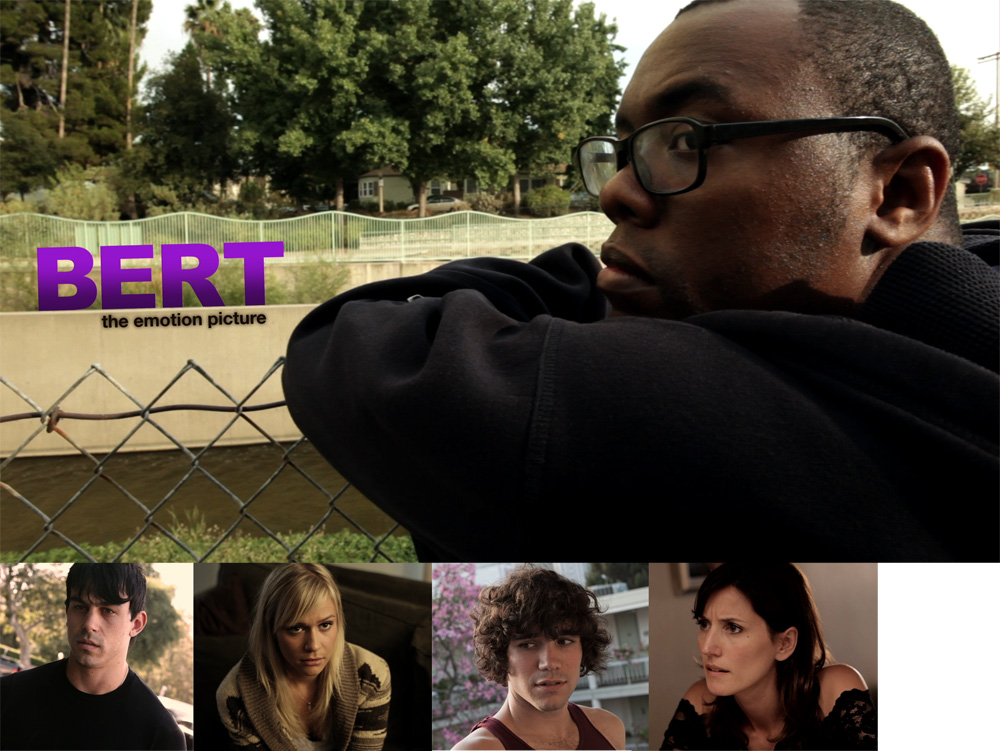
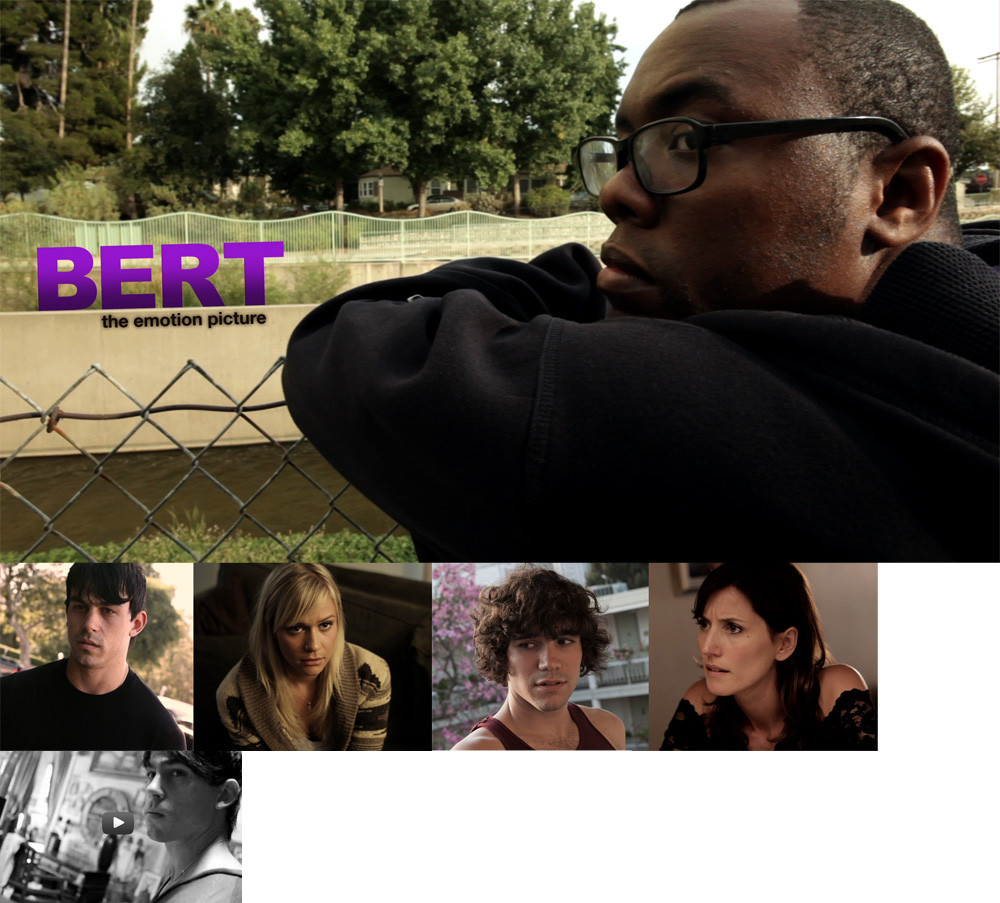
Added Trailer

diff --git a/app/assets/stylesheets/base.css.scss b/app/assets/stylesheets/base.css.scss
@@ -38,13 +38,35 @@ a:hover {
 }
 
 header {
-  text-indent: -999999px;
-  overflow: hidden;
+  position: relative;
   margin: 0 auto 2em;
   width: 980px;
 
   background: no-repeat image-url("bert_the_movie.jpg") top center;
   height: 550px;
+
+  h1, h2 {
+    text-indent: -999999px;
+    overflow: hidden;
+  }
+
+  a {
+    display: block;
+    position: absolute;
+    bottom: 2em;
+    left: 1.7em;
+    width: 242px;
+    height: 20px;
+    padding-top: 152px;
+    background: #000 no-repeat image-url("bert_the_movie.jpg") left -750px;
+    @include box-shadow();
+    overflow: hidden;
+    cursor: pointer;
+    text-transform: uppercase;
+    @include text-shadow(0 1px 1px rgba(255, 255, 255, .7), 0 12px 24px rgba(0,0,0,.4));
+    text-align: center;
+    font-size: 130%;
+  }
 }
 
 nav {
@@ -75,7 +97,7 @@ nav {
   li {
     width: 228px;
     height: 188px;
-    background: no-repeat image-url("bert_the_movie.jpg") bottom left;
+    background: no-repeat image-url("bert_the_movie.jpg") left -563px;
     float: left;
     margin-right: 38px;
 
@@ -84,16 +106,16 @@ nav {
     }
 
     &.actor-2 {
-      background-position: -195px bottom;
+      background-position: -195px -563px;
     }
 
     &.actor-3 {
       width: 216px;
-      background-position: -432px bottom;
+      background-position: -432px -562px;
     }
 
     &.actor-4 {
-      background-position: -649px bottom;
+      background-position: -649px -563px;
       margin-right: 0;
     }
   }
@@ -117,6 +139,11 @@ footer {
 
 section {
   display: none;
+
+  iframe {
+    width: 100%;
+    height: 100%;
+  }
 }
 
 .ui-dialog {

diff --git a/app/assets/javascripts/application.js b/app/assets/javascripts/application.js
@@ -1,8 +1,7 @@
 //= require jquery-1.7.2.min
 //= require jquery-ui-1.8.22.dialog-only.min
-
 $(function() {
-  $('a', '#menu').on('click', function(event) {
+  $('a.modal').on('click', function(event) {
     event && event.preventDefault();
 
     var selector = $(this).attr('href');
@@ -11,7 +10,7 @@ $(function() {
     $dialog.dialog({
       title: $(this).html(),
       width: 800,
-      height: 500
+      height: 531
     });
   });
 });

diff --git a/app/helpers/application_helper.rb b/app/helpers/application_helper.rb
@@ -1,2 +1,5 @@
 module ApplicationHelper
+  def iframe(url)
+    haml_tag :iframe, {scrolling: 'no', frameborder: 'no', allowfullscreen: 'true', src: url}
+  end
 end
